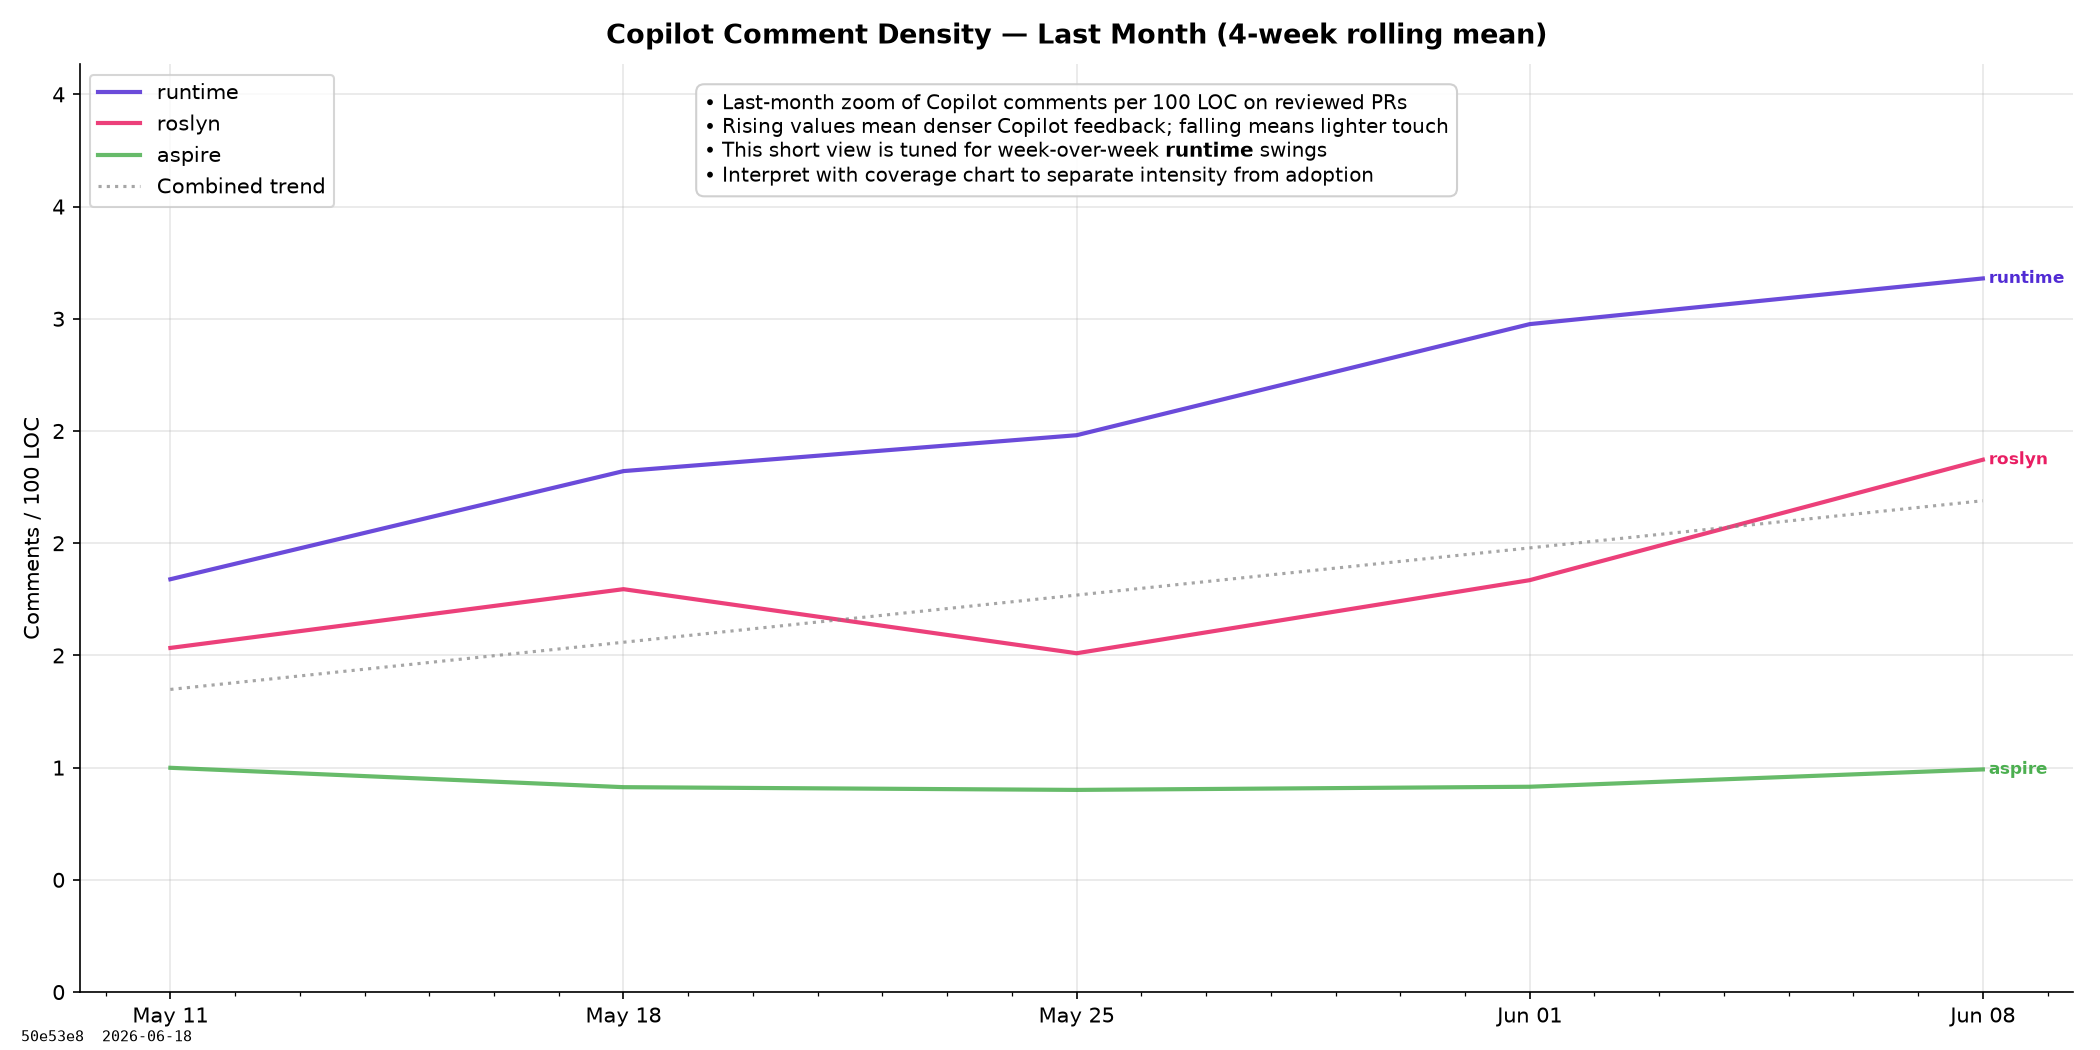
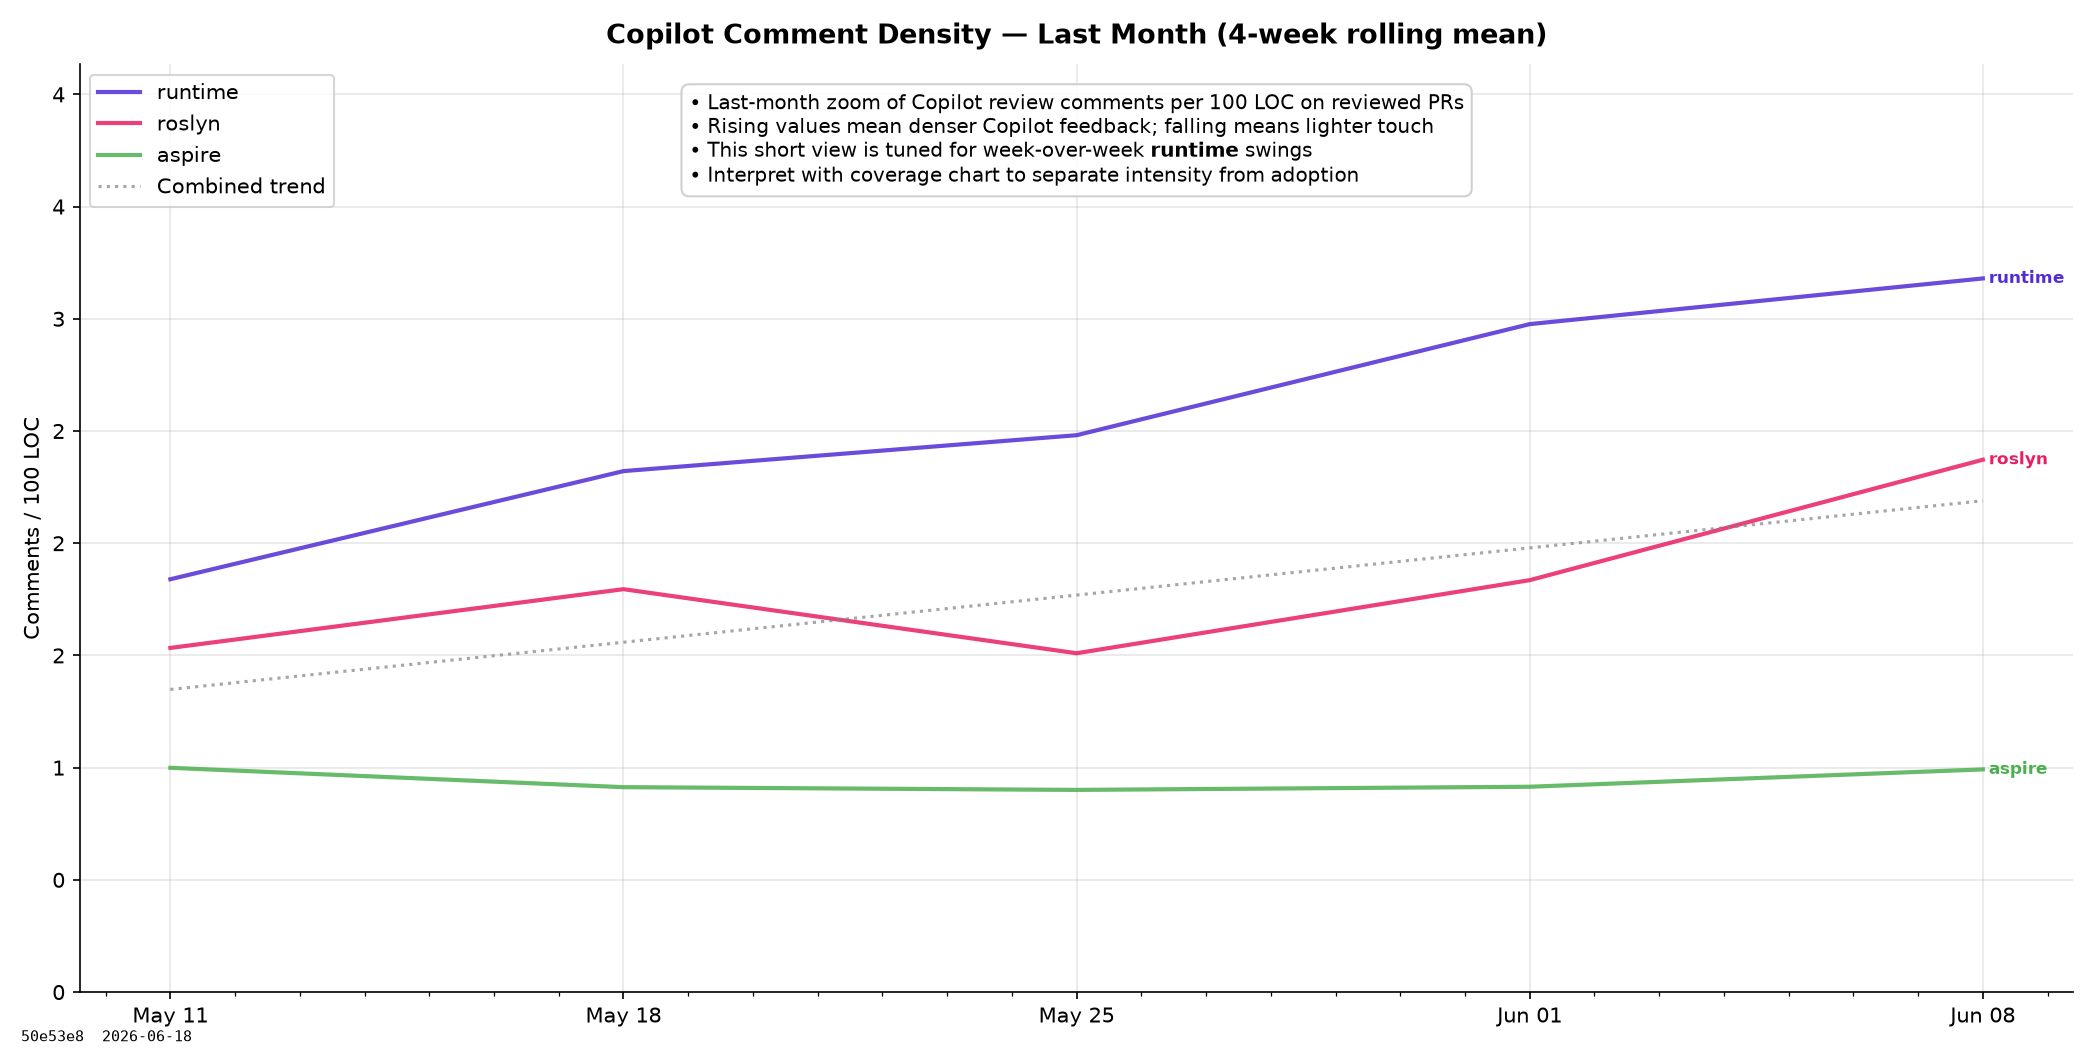
Clarify Copilot review insight wording

Changed region(s): [[0.3095, 0.0914, 0.7119, 0.1829]]

diff --git a/analyze.py b/analyze.py
@@ -5018,7 +5018,7 @@ def chart_review_copilot_comment_density_last_month(all_items, review_data, outp
         output_file="review_copilot_comment_density_last_month.png",
         month_zoom=True,
         insight_lines=[
-            "Last-month zoom of Copilot comments per 100 LOC on reviewed PRs",
+            "Last-month zoom of Copilot review comments per 100 LOC on reviewed PRs",
             "Rising values mean denser Copilot feedback; falling means lighter touch",
             "This short view is tuned for week-over-week runtime swings",
             "Interpret with coverage chart to separate intensity from adoption",
@@ -5034,7 +5034,7 @@ def chart_review_suggestion_rate_last_month(all_items, review_data, output_dir):
         output_file="review_suggestion_rate_last_month.png",
         month_zoom=True,
         insight_lines=[
-            "Last-month zoom of the % of Copilot comments that include code suggestions",
+            "Last-month zoom of the % of Copilot review comments that include code suggestions",
             "Higher values mean more comments are directly actionable",
             "Week-over-week shifts can indicate prompt/model behavior changes",
             "Volatile series — watch for sustained movement over multiple weeks",
